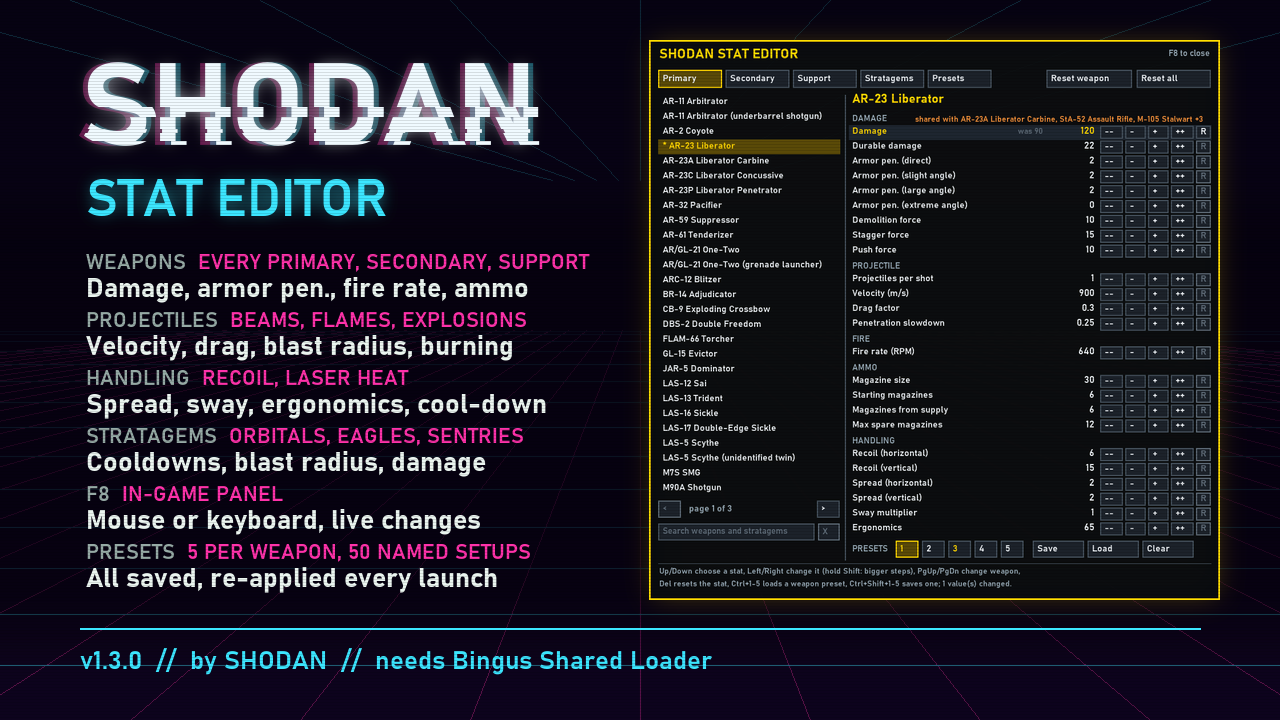
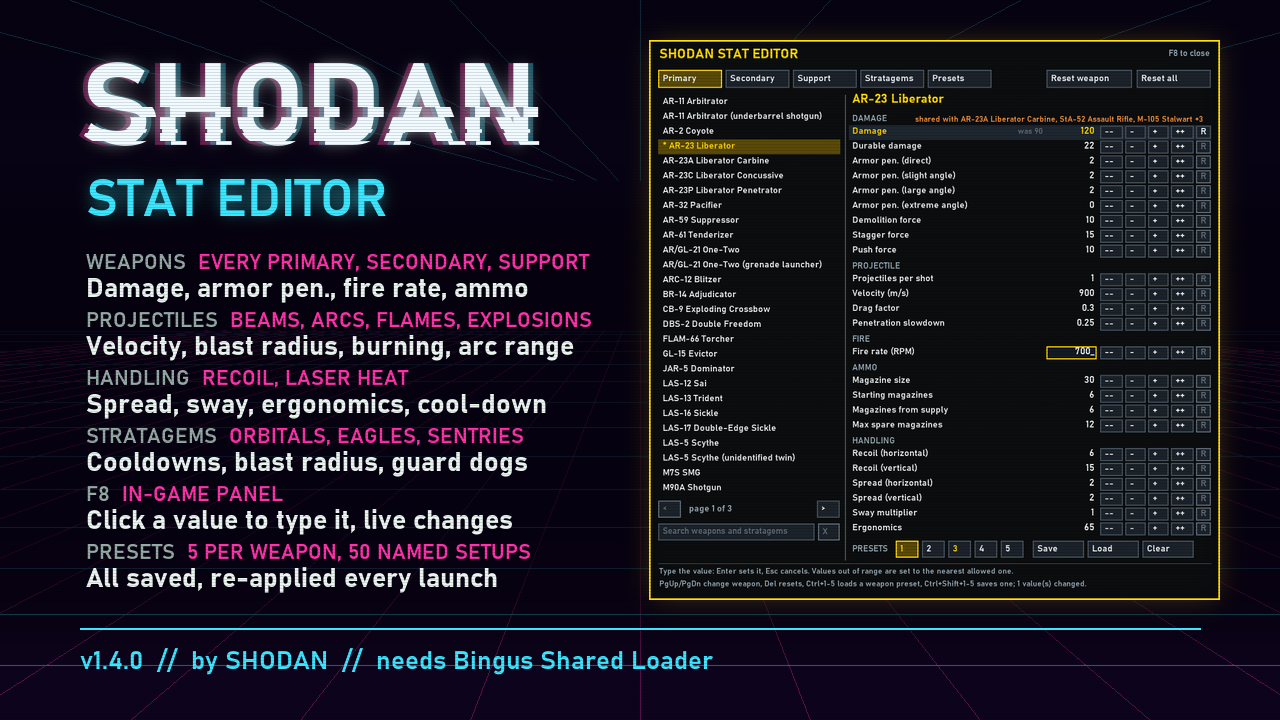
v1.4.0: type-in values, melee and arc damage, Breaching Hammer explosion, Guard Dogs

diff --git a/README.md b/README.md
@@ -17,9 +17,10 @@ saved, and are applied again automatically every time the game starts. Keep setu
 
 | Section | Stats |
 |---|---|
-| Damage | Damage, durable damage, armor penetration (direct, slight, large and extreme angle), demolition force, stagger force, push force |
+| Damage | Damage, durable damage, armor penetration (direct, slight, large and extreme angle), demolition force, stagger force, push force (from the bullet, beam, flame, arc or melee strike) |
 | Projectile | Projectiles per shot, velocity, drag factor, penetration slowdown |
-| Explosion | Inner, outer and shockwave radius of the blast (grenade launchers and pistols, EATs, recoilless, Autocannon, Eruptor and every other weapon with explosive rounds) |
+| Explosion | Inner, outer and shockwave radius of the blast (grenade launchers and pistols, EATs, recoilless, Autocannon, Eruptor and every other weapon with explosive rounds); the Breaching Hammer's explosion also has its full damage set |
+| Arc | Range, chain length, chain split (Arc Thrower, Blitzer, K-9 Guard Dog, Tesla Tower) |
 | Burning / Gas | How much fire or gas each hit applies (flamethrowers, Coyote, Hyena, incendiary shotguns, lasers, EAT-700, gas weapons); burn / gas damage, armor penetration and duration |
 | Fire | Fire rate (every fire mode the weapon has) |
 | Ammo | Magazine size, starting magazines, magazines from supply, max spare magazines (or rounds, for weapons loaded by the round) |
@@ -27,7 +28,8 @@ saved, and are applied again automatically every time the game starts. Keep setu
 | Heat | Overheat threshold, heat per shot / per second, cool-down time (lasers, Quasar Cannon), heatsinks |
 
 Beam weapons (Scythe, Dagger, Trident, Laser Cannon, Meltagun) get their damage from their beam,
-and flame weapons (Flamethrower, Torcher, Crisper, Cremator, Sterilizer) from their spray; both
+flame weapons (Flamethrower, Torcher, Crisper, Cremator, Sterilizer) from their spray, arc weapons
+from their arc and melee weapons (Breaching Hammer, Machete, Saber, ...) from their strike; all
 are fully supported. A flamer's **Damage** is what each flame hit does.
 
 **Burning and gas are shared.** "Burning applied per hit" belongs to the weapon; the **Burning**
@@ -46,12 +48,17 @@ recharge is its "cool-down time after overheat".
 | Eagles | Uses per rearm, Eagle rearm time |
 | Orbital and Eagle strikes | For every projectile and blast they use: velocity, inner / outer / shockwave radius, and the full damage set above |
 | Orbital Laser | Duration, tracking speed, search radius, damage tick |
-| Sentries and emplacements | Their gun, stat for stat like a weapon |
+| Guard Dogs (AR-23, Rover, Dog Breath, Hot Dog, K-9) | The drone's health, spotting range and target search interval, and the gun it carries, stat for stat like a weapon |
+| Tesla Tower | Arc damage, range, chain length and split |
+
+How far a Guard Dog flies from you is decided by its behaviour in the game code, not by the data
+the panel edits, so it can't be changed. The AR-23 dog's bullet is the Liberator Penetrator's and
+the Hot Dog's flame damage is the Torcher's; the panel notes values that change together.
 
 ## Install
 
 1. Install **Bingus Shared Loader** (v15 or newer).
-2. Download `SHODAN-Stat-Editor-v1.3.0.zip` from the [releases page](../../releases/latest).
+2. Download `SHODAN-Stat-Editor-v1.4.0.zip` from the [releases page](../../releases/latest).
 3. Install the zip with your Helldivers 2 mod manager, like any other mod package.
 
 ## Use
@@ -63,10 +70,15 @@ cursor; the keyboard works everywhere:
 |---|---|
 | Up / Down | Choose a stat |
 | Left / Right | Change it (hold Shift for bigger steps) |
+| Enter, or click a value | Type the value (Enter sets it, Esc cancels) |
 | PgUp / PgDn | Previous / next weapon |
 | Ctrl+F | Search (or click the box under the list) |
 | Del | Reset the stat to the game's value |
 | Ctrl+1–5 / Ctrl+Shift+1–5 | Load / save a weapon preset |
+
+**Typing values.** Click a number (or press Enter on a stat) and type: digits, and "." or ","
+for decimals. Enter sets it, Esc cancels, and clicking elsewhere also sets it. A value outside
+what the stat can take is set to the nearest allowed one, and the panel says so.
 
 Every change is saved to
 
@@ -115,7 +127,6 @@ share the whole setup.
 - **Variants.** Some weapons exist more than once in the game's data (a mounted copy, a sentry
   version, an underbarrel attachment). The list labels each one, and the panel says which copy
   you are editing.
-- **Arc and melee weapons** have no damage rows yet; their handling and ammo can be changed.
 - **Barrages** can use different shells for different rounds; the section names say which rounds
   a value belongs to. Long lists scroll: Up/Down follow the chosen stat, or use the buttons under
   the list.
